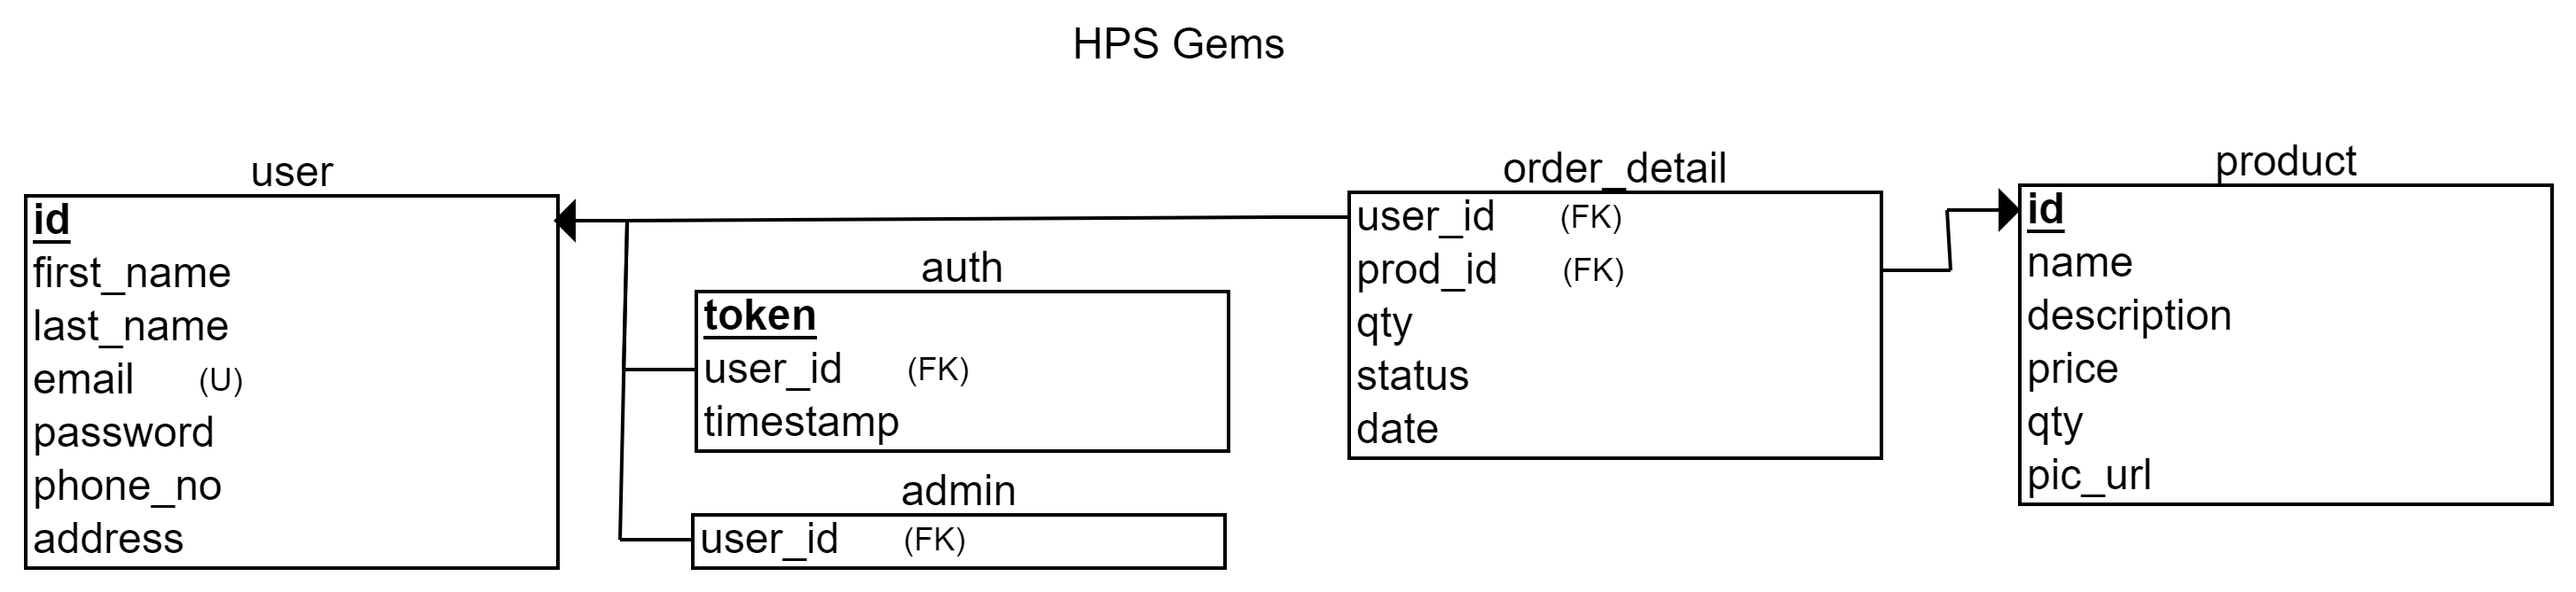
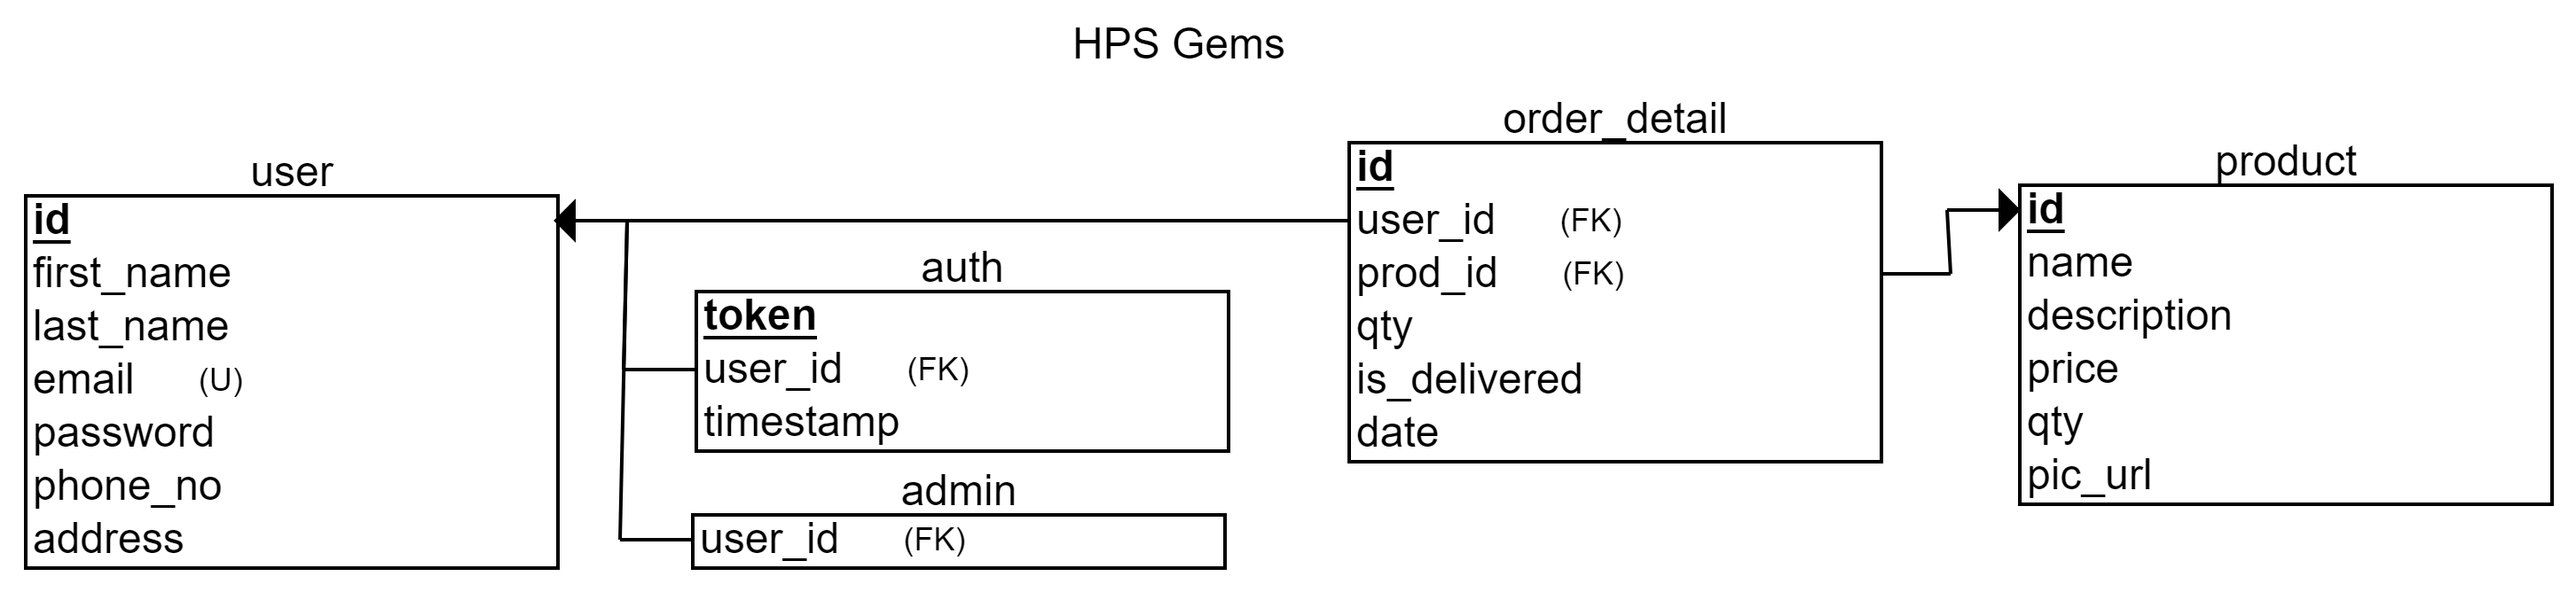
:sparkles: feat: Add 'Add to cart' back end functionality

Changed region(s): [[0.3099, 0.1796, 0.7438, 0.8084], [0.7128, 0.4491, 0.7748, 0.479], [0.6198, 0.4491, 0.6508, 0.479]]

diff --git a/client/js/product.js b/client/js/product.js
@@ -6,22 +6,24 @@ const prod_descp = document.querySelector("#descp");
 const price = document.querySelector("#price");
 const status = document.querySelector("#status");
 const available_qty = document.querySelector("#available-qty");
-const order_qty = document.querySelector("#order-qty");
+const ordered_qty = document.querySelector("#order-qty");
 const button = document.querySelector("button");
-
-const page_url = window.location.href;
 
 let errors = [];
 
-window.addEventListener
+const page_url = window.location.href;
+const url = new URL(page_url);
+const prod_id = url.searchParams.get("id");
+
+window.addEventListener("load", () => getProduct(prod_id));
+
+button.addEventListener
 (
-	"load",
+	"click",
 	() =>
 	{
-		const url = new URL(page_url);
-		const prod_id = url.searchParams.get("id");
-
-		getProduct(prod_id);
+		if(validate(parseInt(ordered_qty.value)))
+			addToCart();
 	}
 );
 
@@ -45,9 +47,7 @@ function getProduct(prod_id)
 		(res) =>
 		{
 			if(res.ok)
-			{
 				return res.json();
-			}
 			else
 			{
 				errors.push("Failure in fetching data.");
@@ -89,6 +89,84 @@ function getProduct(prod_id)
 			}
 		}
 	).catch((err) => console.error(err));
+}
+
+function addToCart()
+{
+	const token = localStorage.getItem("hpsgemstoken");
+
+	if(!token)
+	{
+		errors.push("Please log in to add product to cart.");
+		displayErrors();
+		return;
+	}
+
+	const obj = {
+		id: prod_id,
+		qty: parseInt(ordered_qty.value)
+	};
+	
+	fetch
+	(
+		"/hps-gems/server/api/add-to-cart.php",
+		{
+			method: "POST",
+			headers: {
+				"Content-Type": "application/json",
+				"Accept": "application/json",
+				"Authentication": `Bearer ${token}`
+			},
+			mode: "same-origin",
+			body: JSON.stringify(obj)
+		}
+	).then
+	(
+		(res) =>
+		{
+			if(res.ok)
+				return res.json();
+			else
+			{
+				errors.push("Failure in fetching data.");
+				displayErrors();
+
+				throw new Error("Failure in fetching data.");
+			}
+		}
+	).then
+	(
+		(res_data) =>
+		{
+			if(res_data.code === 200)
+				window.location = "/hps-gems/client/html/cart.html";
+			else
+			{
+				errors = res_data.errors;
+				displayErrors();
+
+				throw new Error(`${res_data.code} ${res_data.status}: ${res_data.errors}`);
+			}
+		}
+	).catch((err) => console.error(err));
+}
+
+function validate(qty)
+{
+	if(isNaN(qty))
+		errors.push("Please enter the quantity to be ordered.");
+	if(qty <= 0)
+		errors.push("The quantity ordered should be an integer more than 0.");
+	if(qty > parseInt(available_qty.innerText))
+		errors.push("You cannot order more than the available quantity.");
+
+	if(errors.length > 0)
+	{
+		displayErrors();
+		return false;
+	}
+	else
+		return true;
 }
 
 function displayErrors()

diff --git a/client/html/product.html b/client/html/product.html
@@ -34,17 +34,17 @@
 		</header>
 
         <div class="product">
-			<noscript class="error-style">You need to enable JavaScript to run this web app.</noscript>
-			<div id="errors" class="error-style"></div>
-
             <div id="image">
                 <img />
             </div>
             
             <div class="content">
                 <div class="description">
+					<noscript class="error-style">You need to enable JavaScript to run this web app.</noscript>
+					<div id="errors" class="error-style"></div>
+
                     <h2 id="name"></h2><br>
-					
+
                     <h4 id="descp"></h4>
                 </div>
 

diff --git a/server/api/add-to-cart.php b/server/api/add-to-cart.php
@@ -1,0 +1,94 @@
+<?php
+	header("Content-Type: application/json");
+	header("Accept: application/json");
+	
+	include_once("../config/Database.php");
+	include_once("../models/Auth.php");
+	include_once("../models/Product.php");
+	include_once("../models/OrderDetail.php");
+
+	$database = new Database();
+	$db = $database->connect();
+
+	$auth = new Auth($db);
+	$product = new Product($db);
+	$order_detail = new OrderDetail($db);
+
+	$errors = [];
+
+	$auth_header_val = $_SERVER["HTTP_AUTHENTICATION"];
+	$token = substr($auth_header_val, 7);
+
+	$auth->token = $token;
+	$auth_result = $auth->authenticate();
+
+	if($auth_result["status"] === "success")
+	{
+		$content_type = isset($_SERVER["CONTENT_TYPE"]) ? $_SERVER["CONTENT_TYPE"] : "";
+		
+		if($content_type === "application/json")
+		{
+			$data = json_decode(file_get_contents("php://input"));
+	
+			// Cleanse data
+			$prod_id = htmlspecialchars(strip_tags(trim($data->id)));
+			$prod_id = filter_var($prod_id, FILTER_SANITIZE_NUMBER_INT);
+			$ordered_qty = htmlspecialchars(strip_tags(trim($data->qty)));
+			$ordered_qty = filter_var($ordered_qty, FILTER_SANITIZE_NUMBER_INT);
+	
+			// Validation
+			if($prod_id == "" || $ordered_qty == "")
+				array_push($errors, "Please enter all fields.");
+			if(!filter_var($prod_id, FILTER_VALIDATE_INT) || !filter_var($ordered_qty, FILTER_VALIDATE_INT))
+				array_push($errors, "Positive integer inputs only.");
+			if($ordered_qty <= 0 || $prod_id <= 0)
+				array_push($errors, "Positive integer inputs only.");
+	
+			if(count($errors) > 0)
+				echo json_encode(array("status" => "NOT ACCEPTABLE", "code" => 406, "data" => array(), "errors" => $errors));
+
+			$product->id = $prod_id;
+			$prod_result = $product->getProduct();
+
+			if($prod_result["status"] != "success")
+				echo json_encode(array("status" => "INTERNAL SERVER ERROR", "code" => 500, "data" => array(), "errors" => array("Database error.")));
+			else
+			{
+				if($ordered_qty > $prod_result["data"]["qty"])
+				{
+					array_push($errors, "Ordered quantity cannot be more than available quantity.");
+					
+					echo json_encode(array("status" => "NOT ACCEPTABLE", "code" => 406, "data" => array(), "errors" => $errors));
+				}
+
+				// User is auth, data is error-free and product exists
+				// Send data to 'OrderDetail.php'
+				$order_detail->user_id = $auth_result["data"]["user_id"];
+				$order_detail->prod_id = $prod_id;
+				$order_detail->qty = $ordered_qty;
+	
+				$order_result = $order_detail->addOrder();
+	
+				if($order_result["status"] === "success")
+				{
+					// Update product table
+					$product->id = $prod_id;
+					$product->qty = $prod_result["data"]["qty"] - $ordered_qty;
+
+					$prod_qty_update_result = $product->updateQty();
+
+					if($prod_qty_update_result["status"] === "success")
+						echo json_encode(array("status" => "OK", "code" => 200, "data" => array(), "errors" => array()));
+					else
+						echo json_encode(array("status" => "INTERNAL SERVER ERROR", "code" => 500, "data" => array(), "errors" => array("Database error.")));
+				}
+				else
+					echo json_encode(array("status" => "INTERNAL SERVER ERROR", "code" => 500, "data" => array(), "errors" => array("Database error")));
+			}
+		}
+		else
+			echo json_encode(array("status" => "NOT ACCEPTABLE", "code" => 406, "data" => array(), "errors" => array("Error in receiving data.")));
+	}
+	else
+		echo json_encode(array("status" => "UNAUTHORIZED", "code" => 401, "data" => array(), "errors" => array("Please log in to add product to cart.")));
+?>

diff --git a/server/models/OrderDetail.php b/server/models/OrderDetail.php
@@ -1,0 +1,92 @@
+<?php
+	class OrderDetail
+	{
+		private $conn;
+		private $table_name = "order_detail";
+
+		public $user_id;
+		public $prod_id;
+		public $qty;
+		public $status;
+		public $date;
+
+		public function __construct($db)
+		{
+			$this->conn = $db;
+		}
+
+		public function addOrder()
+		{
+			$update_result = $this->updateOrder();
+
+			if($update_result["status"] === "success")
+				return array("status" => "success", "data" => array());
+			
+			$query = "INSERT INTO
+						$this->table_name
+					SET
+						user_id = :user_id,
+						prod_id = :prod_id,
+						qty = :qty
+			";
+
+			// Prepare data
+			$stmt = $this->conn->prepare($query);
+
+			// Bind data
+			$stmt->bindParam(":user_id", $this->user_id);
+			$stmt->bindParam(":prod_id", $this->prod_id);
+			$stmt->bindParam(":qty", $this->qty);
+
+			try
+			{
+				if($stmt->execute())
+					return array("status" => "success", "data" => array());
+				else
+					return array("status" => "failure", "data" => array());
+			}
+			catch(PDOException $e)
+			{
+				return array("status" => "failure", "data" => array());
+			}
+		}
+
+		public function updateOrder()
+		{
+			$query = "UPDATE
+						$this->table_name
+					SET
+						qty = qty + :qty
+					WHERE
+							user_id = :user_id
+						AND
+							prod_id = :prod_id
+						AND
+							is_delivered = false
+			";
+
+			// Prepare data
+			$stmt = $this->conn->prepare($query);
+
+			// Bind data
+			$stmt->bindParam(":user_id", $this->user_id);
+			$stmt->bindParam(":prod_id", $this->prod_id);
+			$stmt->bindParam(":qty", $this->qty);
+
+			try
+			{
+				$result = $stmt->execute();
+				$affectedRows = $stmt->rowCount();
+
+				if($result && $affectedRows > 0)
+					return array("status" => "success", "data" => array());
+				else
+					return array("status" => "failure", "data" => array());
+			}
+			catch(PDOException $e)
+			{
+				return array("status" => "failure", "data" => array());
+			}
+		}
+	}
+?>

diff --git a/server/models/Product.php b/server/models/Product.php
@@ -71,5 +71,35 @@
 				return array("status" => "failure", "data" => array());
 			}
 		}
+
+		public function updateQty()
+		{
+			$query = "UPDATE
+						$this->table_name
+					SET
+						qty = :qty
+					WHERE
+						id = :id
+			";
+
+			// Prepare data
+			$stmt = $this->conn->prepare($query);
+
+			// Bind data
+			$stmt->bindParam(":id", $this->id);
+			$stmt->bindParam(":qty", $this->qty);
+
+			try
+			{
+				if($stmt->execute())
+					return array("status" => "success", "data" => array());
+				else
+					return array("status" => "failure", "data" => array());
+			}
+			catch(PDOException $e)
+			{
+				return array("status" => "failure", "data" => array());
+			}
+		}
 	}
 ?>
